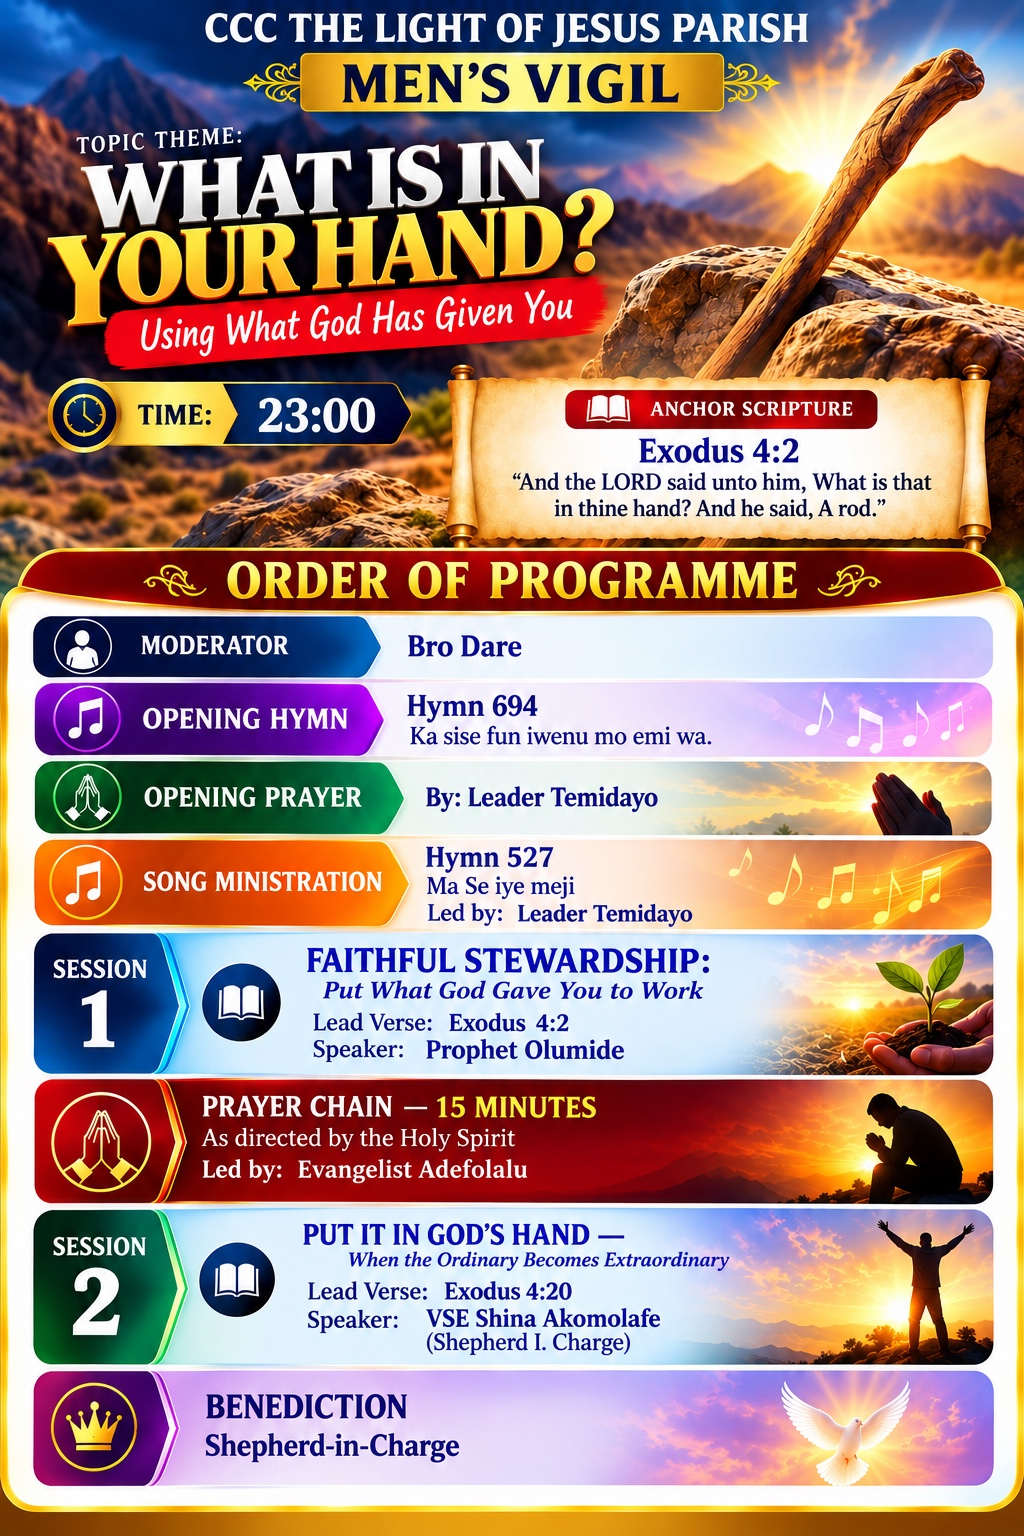
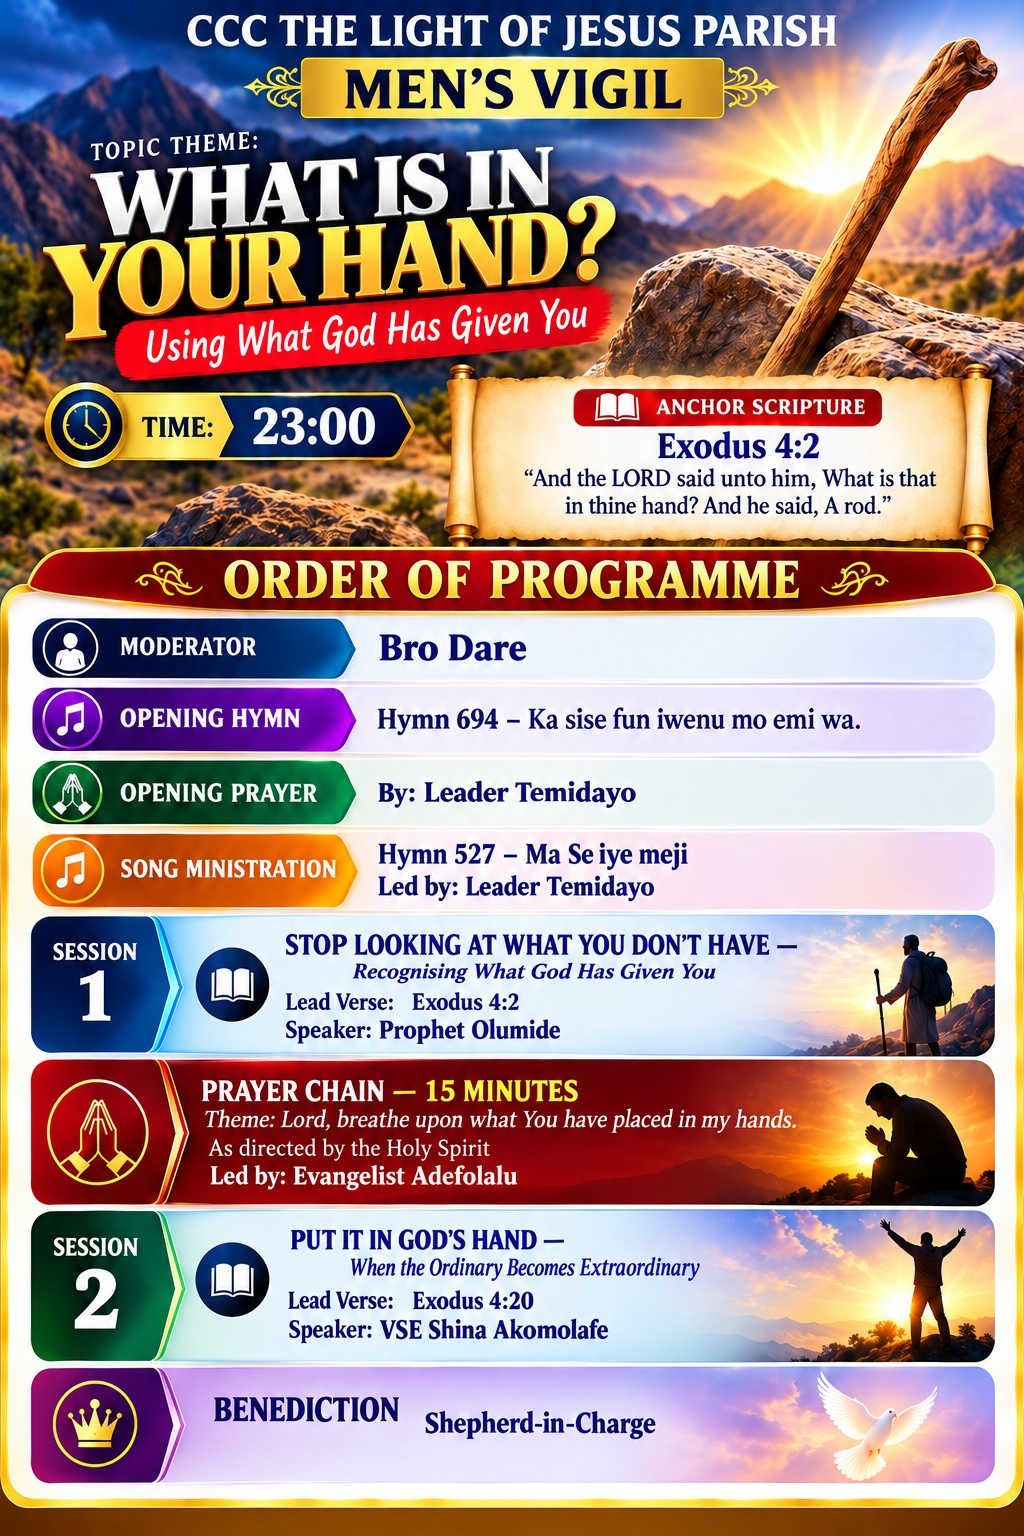
Replace tonight's vigil flyer with revised programme

diff --git a/src/App.jsx b/src/App.jsx
@@ -3484,14 +3484,14 @@ function App() {
             <p><strong>{programmes.mensVigil.day} · {programmes.mensVigil.time} (11:00 pm)</strong></p>
             <p>Using What God Has Given You · Anchor scripture: Exodus 4:2</p>
             <a
-              href={`${import.meta.env.BASE_URL}flyers/mens-vigil-2026-10-02.jpeg`}
+              href={`${import.meta.env.BASE_URL}flyers/mens-vigil-2026-10-02.jpeg?v=2`}
               target="_blank"
               rel="noopener noreferrer"
               aria-label="Open the full-size men's vigil programme for 2 October 2026"
             >
               <img
-                src={`${import.meta.env.BASE_URL}flyers/mens-vigil-2026-10-02.jpeg`}
-                alt="CCC The Light of Jesus Parish men's vigil programme: What Is in Your Hand? Using What God Has Given You. Friday 2 October 2026 at 23:00. Anchor scripture Exodus 4:2. Moderator Bro Dare; opening hymn 694; opening prayer Leader Temidayo; song ministration hymn 527 led by Leader Temidayo; Session 1 Prophet Olumide; prayer chain Evangelist Adefolalu; Session 2 VSE Shina Akomolafe, Shepherd-in-Charge; benediction Shepherd-in-Charge."
+                src={`${import.meta.env.BASE_URL}flyers/mens-vigil-2026-10-02.jpeg?v=2`}
+                alt="CCC The Light of Jesus Parish men's vigil programme: What Is in Your Hand? Using What God Has Given You. Friday 2 October 2026 at 23:00. Anchor scripture Exodus 4:2. Moderator Bro Dare; opening hymn 694; opening prayer Leader Temidayo; song ministration hymn 527 led by Leader Temidayo; Session 1 Stop Looking at What You Don’t Have, led by Prophet Olumide; prayer chain Evangelist Adefolalu; Session 2 VSE Shina Akomolafe, Shepherd-in-Charge; benediction Shepherd-in-Charge."
                 width="1024"
                 height="1536"
                 loading="lazy"
